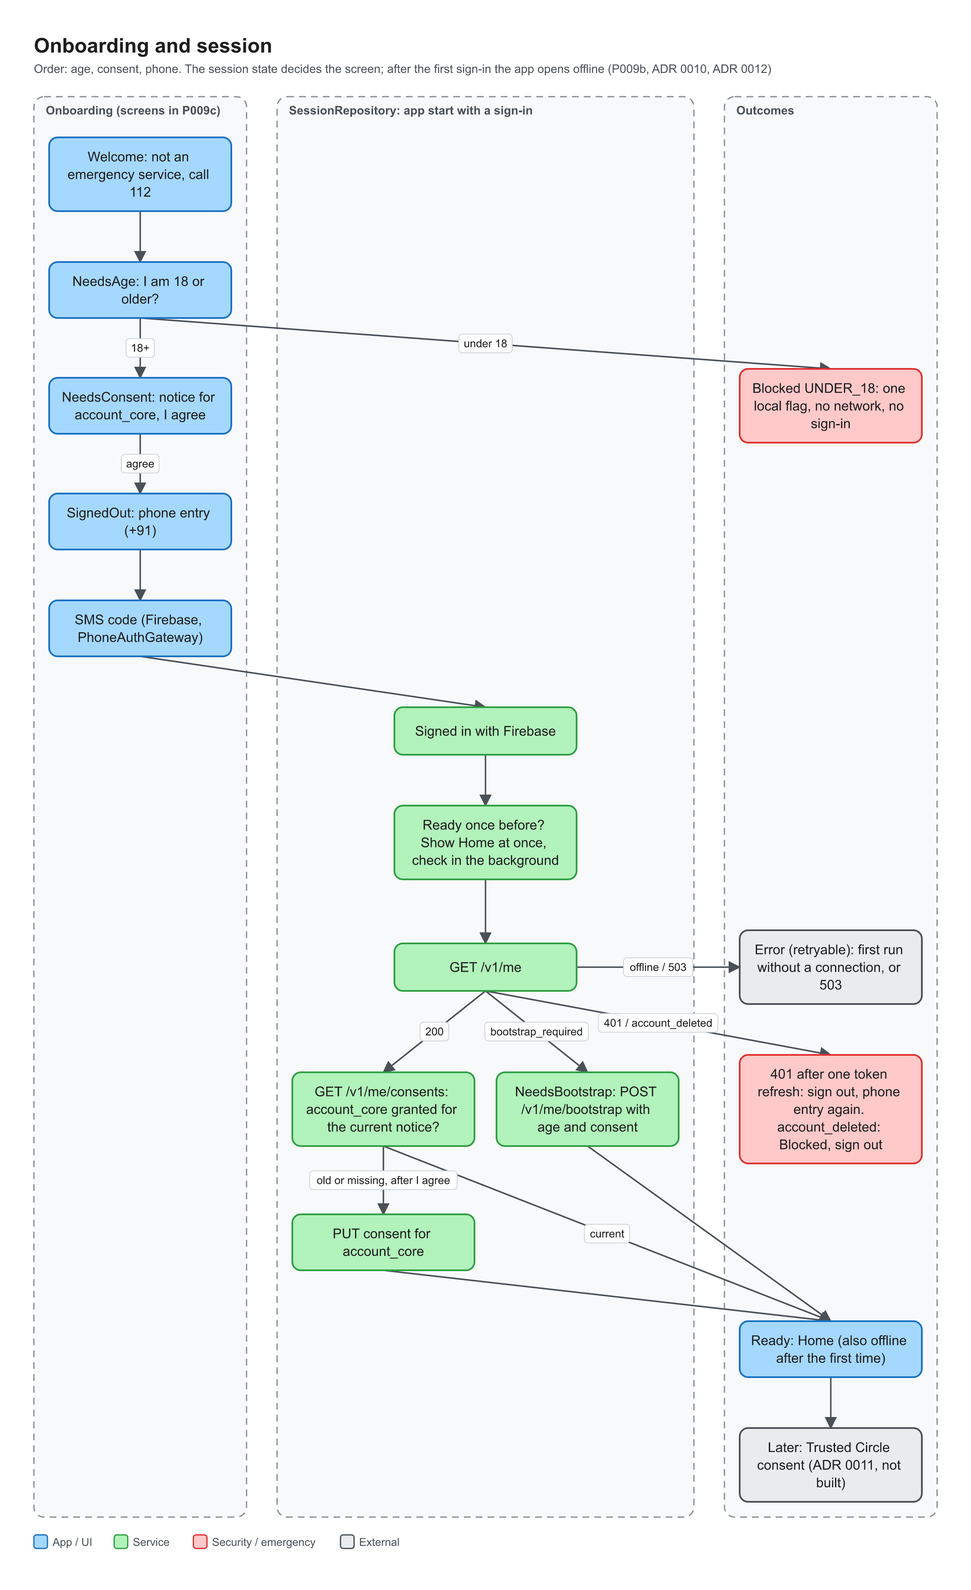
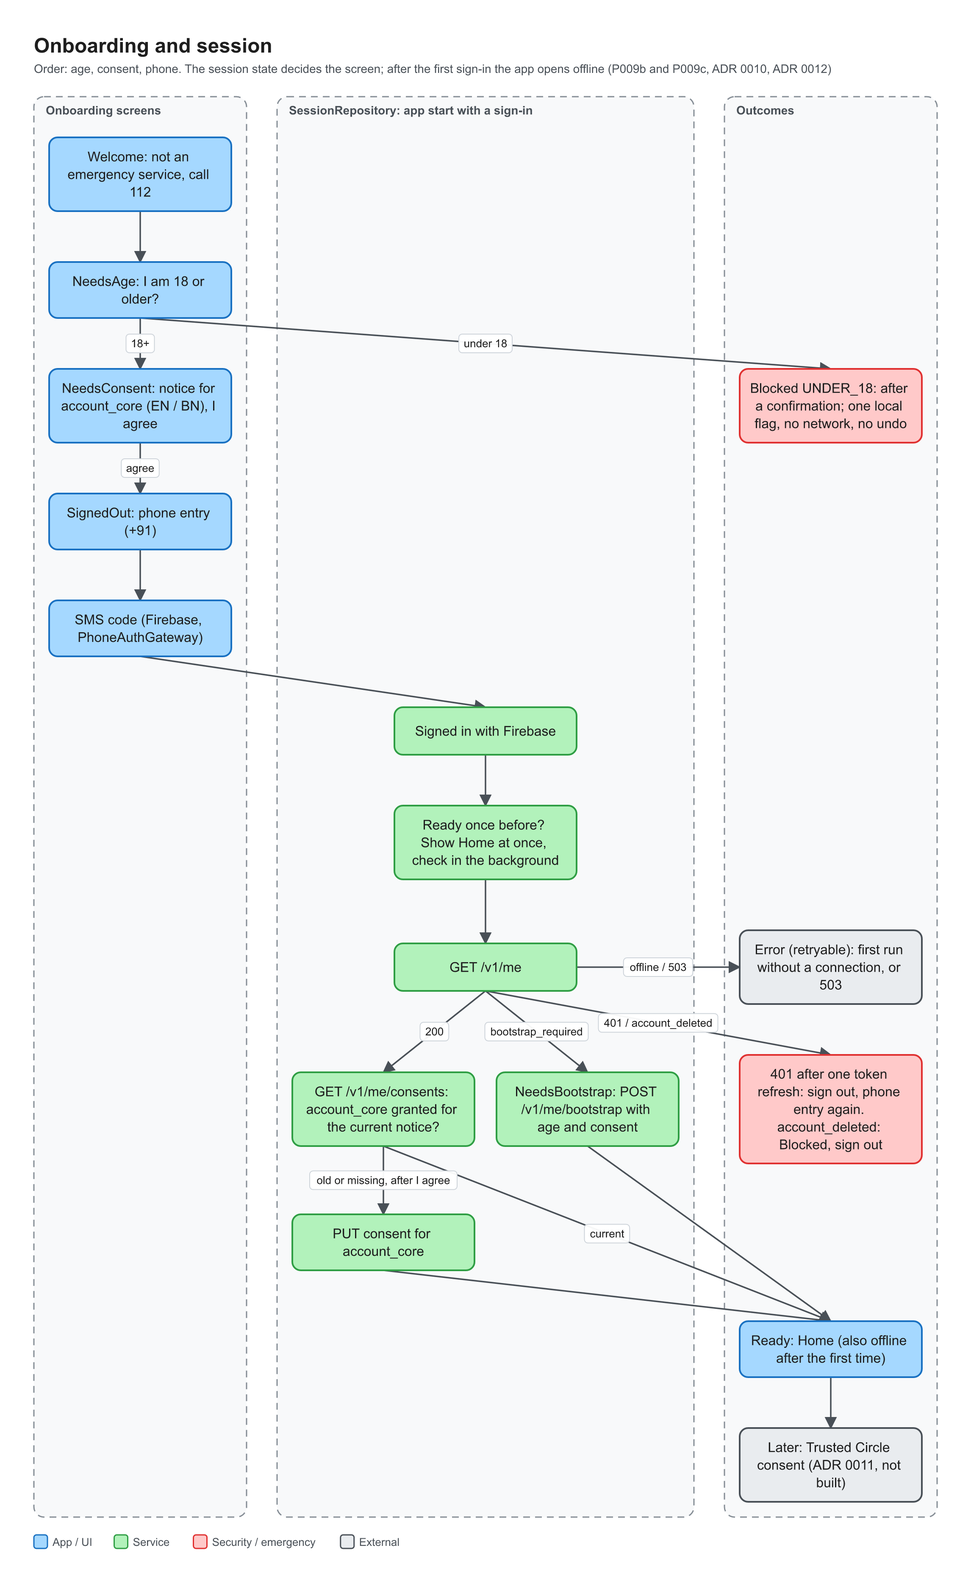
docs(android): consent notice draft, under-18 addendum to ADR 0010 and the sign-in guide [P009c]
Why:
- The notice text must be reviewable by a lawyer and a translator outside the app, and Rahul's decision on the under-18 answer must be on record (B11; ADR 0010).

What changed:
- docs/legal/consent-notice-v1.md: the notice in English and Bengali, generated from the app's strings, marked DRAFT, with the placeholders and the open points for the lawyer. ConsentNoticeDocumentTest fails if the file and the app differ or the notice version is missing.
- ADR 0010 addendum: no in-app undo, the confirmation dialog, what is recorded, the blocked screen, and what a reinstall does.
- android/README.md "Signing in": the screens and how to try them with a Firebase test number. CLAUDE.md: onboarding rules. Diagram labels updated.
- Comments in the tests: phone numbers are made-up patterns and are never used to send anything.

How tested:
- ConsentNoticeDocumentTest (3). markdownlint and the diagram check run in /ship-prompt.

Risks / follow-ups:
- Lawyer review of the notice, the privacy policy and the terms (follow-up exists).

Refs: Plan v7 §12.1, §17.7 · docs/prompt-logs/009c-onboarding-screens.md · Notion: https://app.notion.com/p/3f00737077208177acaff8f6cb69e6d5

Changed region(s): [[0.062, 0.2184, 0.2478, 0.312], [0.7744, 0.2184, 0.9293, 0.2808]]

diff --git a/android/app/src/test/java/com/saferoute/app/ConsentNoticeDocumentTest.kt b/android/app/src/test/java/com/saferoute/app/ConsentNoticeDocumentTest.kt
@@ -1,0 +1,78 @@
+// SPDX-License-Identifier: AGPL-3.0-only
+package com.saferoute.app
+
+import java.io.File
+import javax.xml.parsers.DocumentBuilderFactory
+import org.junit.Assert.assertEquals
+import org.junit.Assert.assertTrue
+import org.junit.Test
+import org.w3c.dom.Element
+
+/**
+ * The consent notice exists twice: as string resources (what the app shows) and as
+ * `docs/legal/consent-notice-v1.md` (what a lawyer and a translator review). This test keeps
+ * them identical: every notice string, in both languages, must appear word for word in the
+ * document, and the document must name the notice version the code sends.
+ *
+ * Plain JVM test that reads the files. Gradle runs unit tests with `android/app` as the
+ * working directory.
+ */
+class ConsentNoticeDocumentTest {
+
+    private val document = File("../../docs/legal/consent-notice-v1.md")
+    private val versionSource = File("src/main/java/com/saferoute/app/core/session/SessionState.kt")
+
+    /** The notice's own strings, in order. Language names and button labels are not part of it. */
+    private val noticeKeys = listOf("notice_title", "notice_intro") +
+        (1..8).flatMap { listOf("notice_s${it}_title", "notice_s${it}_body") }
+
+    private fun strings(path: String): Map<String, String> {
+        val root = DocumentBuilderFactory.newInstance().newDocumentBuilder().parse(File(path)).documentElement
+        val result = linkedMapOf<String, String>()
+        val children = root.childNodes
+        for (i in 0 until children.length) {
+            val element = children.item(i) as? Element ?: continue
+            if (element.tagName == "string") result[element.getAttribute("name")] = element.textContent
+        }
+        return result
+    }
+
+    /** One paragraph per line of the string; `\n` in a resource is a line break. */
+    private fun paragraphs(text: String): List<String> = text.split("\\n").map { it.trim() }
+
+    @Test
+    fun `the document exists and names the notice version the app sends`() {
+        assertTrue("Not found: ${document.path}", document.isFile)
+        val version = Regex("""const val NOTICE_VERSION = "([^"]+)"""")
+            .find(versionSource.readText())?.groupValues?.get(1)
+        assertTrue("NOTICE_VERSION not found in the code", !version.isNullOrBlank())
+        assertTrue("The document must mention $version", document.readText().contains("`$version`"))
+    }
+
+    @Test
+    fun `every sentence of the English and Bengali notice is in the document, word for word`() {
+        val text = document.readText()
+        val missing = mutableListOf<String>()
+        for (path in listOf("src/main/res/values/strings.xml", "src/main/res/values-bn/strings.xml")) {
+            val strings = strings(path)
+            for (key in noticeKeys) {
+                val value = strings[key] ?: error("$key is missing from $path")
+                for (paragraph in paragraphs(value)) {
+                    // Bullets are written as a Markdown list in the document.
+                    val expected = paragraph.removePrefix("• ")
+                    if (!text.contains(expected)) missing += "$path $key: $expected"
+                }
+            }
+        }
+        assertEquals("The document and the app's notice differ", emptyList<String>(), missing)
+    }
+
+    @Test
+    fun `the document is marked as a draft and keeps both placeholders`() {
+        val text = document.readText()
+        assertTrue(text.contains("DRAFT"))
+        assertTrue(text.contains("[operator name]"))
+        assertTrue(text.contains("[grievance contact]"))
+        assertTrue(text.contains("lawyer"))
+    }
+}

diff --git a/android/app/src/test/java/com/saferoute/app/core/auth/FakePhoneAuthGateway.kt b/android/app/src/test/java/com/saferoute/app/core/auth/FakePhoneAuthGateway.kt
@@ -7,7 +7,12 @@ import kotlinx.coroutines.flow.Flow
 import kotlinx.coroutines.flow.MutableStateFlow
 import kotlinx.coroutines.flow.flowOf
 
-/** Obviously fake values. Tests assert that none of them ever reaches a log line. */
+/**
+ * Obviously fake values. Tests assert that none of them ever reaches a log line.
+ *
+ * Phone numbers in tests are made-up patterns and are never used to send anything: the fake
+ * below has no network, no Firebase and no SMS behind it.
+ */
 const val FAKE_ID_TOKEN = "fake-id-token-aaaa.bbbb.cccc"
 const val FAKE_REFRESHED_ID_TOKEN = "fake-refreshed-id-token-dddd.eeee.ffff"
 const val FAKE_PHONE_E164 = "+910000000001"

diff --git a/android/app/src/test/java/com/saferoute/app/core/auth/PhoneNumberTest.kt b/android/app/src/test/java/com/saferoute/app/core/auth/PhoneNumberTest.kt
@@ -5,7 +5,13 @@ import org.junit.Assert.assertEquals
 import org.junit.Assert.assertNull
 import org.junit.Test
 
-/** Numbers here are made up; the 00000 block is not assigned to anyone. */
+/**
+ * The numbers here are made-up patterns. The validator only accepts numbers that start with
+ * 6 to 9, so the usual all-zero placeholder cannot test the accepting path.
+ *
+ * They are never used to send anything: this test only calls a pure function, and no test in
+ * this project sends an SMS, calls Firebase or dials a number.
+ */
 class PhoneNumberTest {
 
     @Test

diff --git a/docs/legal/consent-notice-v1.md b/docs/legal/consent-notice-v1.md
@@ -1,0 +1,129 @@
+# Consent notice v1 (account creation)
+
+> **DRAFT. Not reviewed by a lawyer.** This text must be reviewed by a lawyer, and the Bengali
+> text by a native speaker, before any release. It is published here so that it can be
+> reviewed, not because it is final.
+>
+> Licensed under CC BY-NC-ND 4.0 like everything under `docs/`: see
+> [`../LICENSE.md`](../LICENSE.md).
+
+| | |
+| --- | --- |
+| Purpose | `account_core`: verify the phone number and keep the account |
+| Notice version sent by the app | `2026-10-draft1` |
+| Shown | In onboarding, after the age question and **before** the phone number is asked for |
+| Languages | English and Bengali; the person can switch on the notice screen |
+| Source of truth | The app's string resources (`notice_*` in `android/app/src/main/res/values/strings.xml` and `values-bn/strings.xml`). A test (`ConsentNoticeDocumentTest`) fails if this file and the app differ |
+
+## How it is used
+
+- Nothing is pre-selected. "I agree" becomes available once the notice has been scrolled to its
+  end.
+- "I don't agree" stores and sends nothing; the app explains that it cannot work without the
+  agreement.
+- When the person agrees, the app records the notice version and the language it was shown in.
+  They are sent to the server when the account is created
+  ([ADR 0010](../adr/0010-adults-only-and-consent-records.md)).
+- **Changing the text means changing the notice version** (`NOTICE_VERSION` in
+  `core/session/SessionState.kt`). Every user is then asked again.
+
+## Placeholders to fill in before release
+
+| Placeholder | What goes there |
+| --- | --- |
+| `[operator name]` | The legal name of whoever operates SafeRoute (the company, once registered) |
+| `[grievance contact]` | How to reach the grievance contact (an e-mail address or a form) |
+
+## Open points for the lawyer
+
+- Is a self-declared "18 or older" enough, and is the wording right?
+- Is the description of what Google's Firebase service receives accurate and sufficient?
+- Is "withdrawing means deleting your account" acceptable while in-app deletion does not exist
+  yet?
+- Which rights must be listed, and how must the grievance contact be named?
+- Is the statement about where data is kept correct for every service used?
+- Is the Bengali text a faithful translation?
+
+## English
+
+### Your privacy
+
+Please read this before you continue. It says what SafeRoute needs to create your account, and why.
+
+#### Who we are
+
+SafeRoute is operated by [operator name]. It is a navigation app with safety features. It is not an emergency service. In an emergency, call 112.
+
+#### What we need now, and why
+
+To create your account we will:
+
+- verify your phone number with a one-time code sent by SMS, and keep the number;
+- keep the language you use and basic account details;
+- record that you said you are 18 or older, and that you agreed to this notice, with the date.
+
+#### Your location
+
+When you use the map and navigation, SafeRoute uses your location to show where you are and to find routes. This starts only when you use those features and allow location access on your phone.
+
+#### Where your data is kept
+
+Your account details are kept on Google Cloud servers in India. Your phone number is verified by Google’s Firebase service, which receives the number and some information about your phone to prevent misuse.
+
+#### What will ask you separately
+
+Emergency contacts, SOS alerts, live location sharing and safety reports use more information. Each one will ask for your permission the first time you use it. You can use SafeRoute without them.
+
+#### Your rights
+
+You can ask to see your information, to have it corrected or erased, and you can raise a grievance. Contact: [grievance contact].
+
+#### Changing your mind
+
+You can withdraw your agreement at any time. Your account can’t work without it, so withdrawing means deleting your account. Deleting an account inside the app arrives in a later version; until then, write to [grievance contact].
+
+#### Age
+
+SafeRoute is for people aged 18 or older.
+
+## Bengali (বাংলা), draft translation
+
+### আপনার গোপনীয়তা
+
+এগিয়ে যাওয়ার আগে এটি পড়ুন। আপনার অ্যাকাউন্ট তৈরি করতে SafeRoute-এর কী দরকার এবং কেন, তা এখানে বলা আছে।
+
+#### আমরা কারা
+
+SafeRoute পরিচালনা করে [operator name]। এটি নিরাপত্তা সংক্রান্ত সুবিধা-সহ একটি পথনির্দেশক অ্যাপ। এটি কোনো জরুরি পরিষেবা নয়। জরুরি অবস্থায় 112 নম্বরে কল করুন।
+
+#### এখন আমাদের কী দরকার, এবং কেন
+
+আপনার অ্যাকাউন্ট তৈরি করতে আমরা:
+
+- SMS-এ পাঠানো একবার ব্যবহারযোগ্য কোড দিয়ে আপনার ফোন নম্বর যাচাই করব এবং নম্বরটি রাখব;
+- আপনি যে ভাষা ব্যবহার করেন তা এবং অ্যাকাউন্টের সাধারণ তথ্য রাখব;
+- আপনি যে বলেছেন আপনার বয়স 18 বা তার বেশি, এবং এই বিজ্ঞপ্তিতে সম্মতি দিয়েছেন, তা তারিখ-সহ লিখে রাখব।
+
+#### আপনার অবস্থান
+
+আপনি মানচিত্র ও পথনির্দেশ ব্যবহার করলে, আপনি কোথায় আছেন তা দেখাতে এবং পথ খুঁজতে SafeRoute আপনার অবস্থান ব্যবহার করে। আপনি ওই সুবিধাগুলো ব্যবহার করলে এবং ফোনে অবস্থানের অনুমতি দিলে তবেই এটি শুরু হয়।
+
+#### আপনার তথ্য কোথায় রাখা হয়
+
+আপনার অ্যাকাউন্টের তথ্য ভারতে অবস্থিত Google Cloud সার্ভারে রাখা হয়। আপনার ফোন নম্বর যাচাই করে Google-এর Firebase পরিষেবা; অপব্যবহার ঠেকাতে এটি নম্বরটি এবং আপনার ফোন সম্পর্কে কিছু তথ্য পায়।
+
+#### যেগুলো আলাদা করে অনুমতি চাইবে
+
+জরুরি যোগাযোগের ব্যক্তি, SOS সতর্কবার্তা, লাইভ অবস্থান শেয়ার এবং নিরাপত্তা সংক্রান্ত রিপোর্টে আরও তথ্য লাগে। প্রতিটি সুবিধা প্রথমবার ব্যবহারের সময় আপনার অনুমতি চাইবে। এগুলো ছাড়াও আপনি SafeRoute ব্যবহার করতে পারবেন।
+
+#### আপনার অধিকার
+
+আপনি নিজের তথ্য দেখতে, তা সংশোধন করাতে বা মুছে ফেলাতে চাইতে পারেন, এবং অভিযোগ জানাতে পারেন। যোগাযোগ: [grievance contact]।
+
+#### মত বদলালে
+
+আপনি যেকোনো সময় সম্মতি প্রত্যাহার করতে পারেন। সম্মতি ছাড়া আপনার অ্যাকাউন্ট চলতে পারে না, তাই প্রত্যাহার করা মানে অ্যাকাউন্ট মুছে ফেলা। অ্যাপের ভেতর থেকে অ্যাকাউন্ট মোছার সুবিধা পরের সংস্করণে আসবে; ততদিন [grievance contact]-এ লিখুন।
+
+#### বয়স
+
+SafeRoute শুধু 18 বছর বা তার বেশি বয়সীদের জন্য।

diff --git a/android/README.md b/android/README.md
@@ -90,7 +90,8 @@ android/
       navigation/                  destinations (type-safe routes) and the NavHost
       feature/home/                Home screen, HomeViewModel, map placeholder, 112 dialog
       feature/search/              Search screen (layout only until P011)
-      feature/settings/            Settings screen with the About section
+      feature/settings/            Settings: account, privacy, About
+      feature/onboarding/          welcome, age gate, consent notice, phone and code, blocked
       core/designsystem/theme/     colours, type, shapes, spacing: the design tokens
       core/designsystem/component/ SearchPill, MapControlButton, EmergencyButton, sheet
       core/designsystem/preview/   @SafeRoutePreviews (light, dark, Bengali, 200% font)
@@ -236,10 +237,36 @@ accepted the consent notice ([ADR 0010](../docs/adr/0010-adults-only-and-consent
 
 ![Onboarding and session](../docs/diagrams/009b-onboarding-and-session.svg)
 
-**What exists so far (P009b).** The parts without a screen: the Firebase wrapper
-(`core/auth`), the session state machine and the stored flags (`core/session`). The onboarding
-screens, the Settings account section and the consent notice text arrive in the next part
-(P009c). Until then the app still opens straight to Home.
+**The screens (since P009c).** Welcome → "How old are you?" → the consent notice → mobile
+number → SMS code → Home. Home cannot be reached before all of them are done.
+
+- **Age.** "I am under 18" asks for confirmation and then blocks the app on that phone. There
+  is no undo in the app; clearing the app's storage or reinstalling asks the question again
+  (ADR 0010, addendum).
+- **Consent notice.** English or Bengali, switchable on that screen only. "I agree" becomes
+  available once the notice has been scrolled to its end. The text is a **draft**; debug
+  builds say so on the screen. It is mirrored in
+  [`docs/legal/consent-notice-v1.md`](../docs/legal/consent-notice-v1.md), and a test fails if
+  the two differ. Changing the text means changing `NOTICE_VERSION`.
+- **Phone and code.** `+91` is fixed. A new code can be requested after 60 seconds. If Android
+  kills the app on the code screen, you come back to the phone screen.
+- **Settings → Account** shows the masked phone number (`+91 ••••• ••123`), "Sign out" (asks
+  first, then returns to the start) and the consents on record.
+- **Settings → Developer** (debug builds) also shows the session state and "Who am I": the
+  role and language the server has for you. It proves the phone's ID token is accepted.
+
+### Try it on a phone with a Firebase test number
+
+1. Have the real `google-services.json` in place and `saferoute.apiBaseUrl` set (see above and
+   "Talking to the backend").
+2. In the Firebase console, add a **test phone number** with a fixed code (*Authentication →
+   Sign-in method → Phone → Phone numbers for testing*). No SMS is sent and nothing is charged.
+3. Run the debug app, go through the screens, type the test number without `+91`, then its
+   code.
+4. *Settings → Developer → Ask the server who I am* should answer with role `user`.
+
+Type the test number and code on the phone only. Don't put them in the repository, in Notion,
+in a chat or in a screenshot.
 
 ### The Firebase configuration file
 
@@ -286,7 +313,9 @@ a release still assembles; never use that flag for a build that goes to a phone.
 | `FirebasePhoneAuthGateway` | `core/auth` | The implementation on the Firebase SDK. Thin; checked on a phone |
 | `FirebaseIdTokenProvider` | `core/auth` | Gives the network layer the ID token (the seam from "Talking to the backend") |
 | `normaliseIndianMobile` | `core/auth` | Turns typed input into `+91` and ten digits, or rejects it |
-| `SessionRepository` | `core/session` | Decides the `SessionState` from the stored flags, Firebase and the API |
+| `Session` / `SessionRepository` | `core/session` | Decides the `SessionState` from the stored flags, Firebase and the API. Screens use the `Session` interface |
+| `OnboardingNavHost` | `navigation` | Shows the onboarding screen that belongs to the session state |
+| Welcome, age, notice, phone, code, blocked screens | `feature/onboarding` | Plain UI plus `OnboardingViewModel` and `SignInViewModel` |
 | `SessionStore` | `core/session` | Six flags in Jetpack DataStore; never the phone number, a token or a code |
 
 The session states: `Loading`, `NeedsAge`, `NeedsConsent`, `SignedOut`, `NeedsBootstrap`,
@@ -297,17 +326,19 @@ at once on the next start and checks with the server in the background. Only a d
 (the sign-in is no longer valid, the account was deleted, the consent is out of date) takes the
 user out of Home. A first run needs a connection.
 
-**In tests** nothing talks to Firebase: use `FakePhoneAuthGateway`. A Hilt test that reaches
-sign-in or the session replaces the production binding:
+**In tests** nothing talks to Firebase or the server. A test that starts the real activity
+replaces the session with `FakeSession` (ready, so the app's own screens show):
 
 ```kotlin
 @HiltAndroidTest
-@UninstallModules(AuthModule::class)
+@UninstallModules(SessionBindingModule::class)
 class MyTest {
-    @BindValue @JvmField val gateway: PhoneAuthGateway = FakePhoneAuthGateway()
-    @BindValue @JvmField val tokens: IdTokenProvider = FirebaseIdTokenProvider(gateway)
+    @BindValue @JvmField val session: Session = FakeSession(SessionState.Ready)
 }
 ```
+
+A test that goes through sign-in also replaces `AuthModule` with `FakePhoneAuthGateway`
+(see `OnboardingNavigationTest`).
 
 **What not to do:**
 

diff --git a/docs/adr/0010-adults-only-and-consent-records.md b/docs/adr/0010-adults-only-and-consent-records.md
@@ -81,6 +81,32 @@
 - Revisit when: the lawyer review is done; DPDP rules commence or change; a teen or family
   feature is proposed.
 
+## Addendum (P009c, 2026-10-06): the under-18 answer on the phone
+
+Decided by Rahul after the age gate was designed in P009b.
+
+- **No in-app undo.** Once a person has confirmed "I am under 18", the app stays blocked on
+  that phone. A button to change the answer would turn the gate into a formality.
+- **A confirmation comes first.** "I am under 18" opens a dialog that says the choice cannot be
+  changed in the app. Only "Yes, I am under 18" records it; "Go back", the back gesture and a
+  tap outside record nothing. This is the protection against a mis-tap.
+- **What is recorded:** one flag in the app's private storage on that phone (`under_18`).
+  Nothing is sent to any server, Firebase is not contacted, and no account exists.
+- **The blocked screen** thanks the person, says that nothing left the phone, repeats "In an
+  emergency, call 112" and gives a contact for people who answered by mistake. Until an
+  operator exists that contact is the placeholder `[grievance contact]`.
+- **Reinstall behaviour.** The flag is not backed up (`allowBackup=false`, ADR 0008) and lives
+  only in the app's data. Uninstalling and reinstalling the app, or *Settings → Apps →
+  SafeRoute → Storage → Clear storage*, removes it and the age question is asked again. This
+  is accepted: the gate is a self-declaration, not an identity check, and a person who
+  reinstalls to answer differently is making a new declaration. The same reset is how the
+  grievance contact can help someone who answered by mistake.
+- **Not done:** no device identifier, account or server-side record is used to remember the
+  answer across reinstalls. That would mean storing data about someone who said they are a
+  child, which this ADR set out to avoid.
+- Revisit with the lawyer review of the age gate (follow-up "Make the age gate stricter if the
+  lawyer requires it").
+
 ## References
 
 - Plan v7 §3.2, §11, §12.1; [addendum v7.1](../plan/addendum-v7.1.md).

diff --git a/CLAUDE.md b/CLAUDE.md
@@ -268,6 +268,12 @@ and [`android/README.md`](android/README.md):
   Firebase uid; tests use `FakePhoneAuthGateway` and its `FAKE_...` values and never start
   Firebase (a Hilt test that reaches sign-in replaces `AuthModule`). DataStore holds flags only.
   No other Firebase product (Analytics, Crashlytics, App Check) without a prompt that asks for it.
+- Onboarding (since P009c): the session state decides the screen (`navigation/OnboardingNavHost`);
+  Home is shown only for `SessionState.Ready`. "I am under 18" has no in-app undo and needs the
+  confirmation dialog first (ADR 0010, addendum). The consent notice text lives in the `notice_*`
+  strings and is mirrored in `docs/legal/consent-notice-v1.md` (`ConsentNoticeDocumentTest`);
+  changing it means changing `NOTICE_VERSION`. It is a draft until a lawyer has reviewed it. A UI
+  test that starts `MainActivity` replaces `SessionBindingModule` with `FakeSession`.
 - `android/app/google-services.json` is never opened, printed or committed by Claude Code. CI and
   fresh clones use `android/scripts/write-dummy-google-services` (project `demo-saferoute`); a
   release build refuses the dummy or a missing file unless `-Psaferoute.allowDummyFirebase=true`
